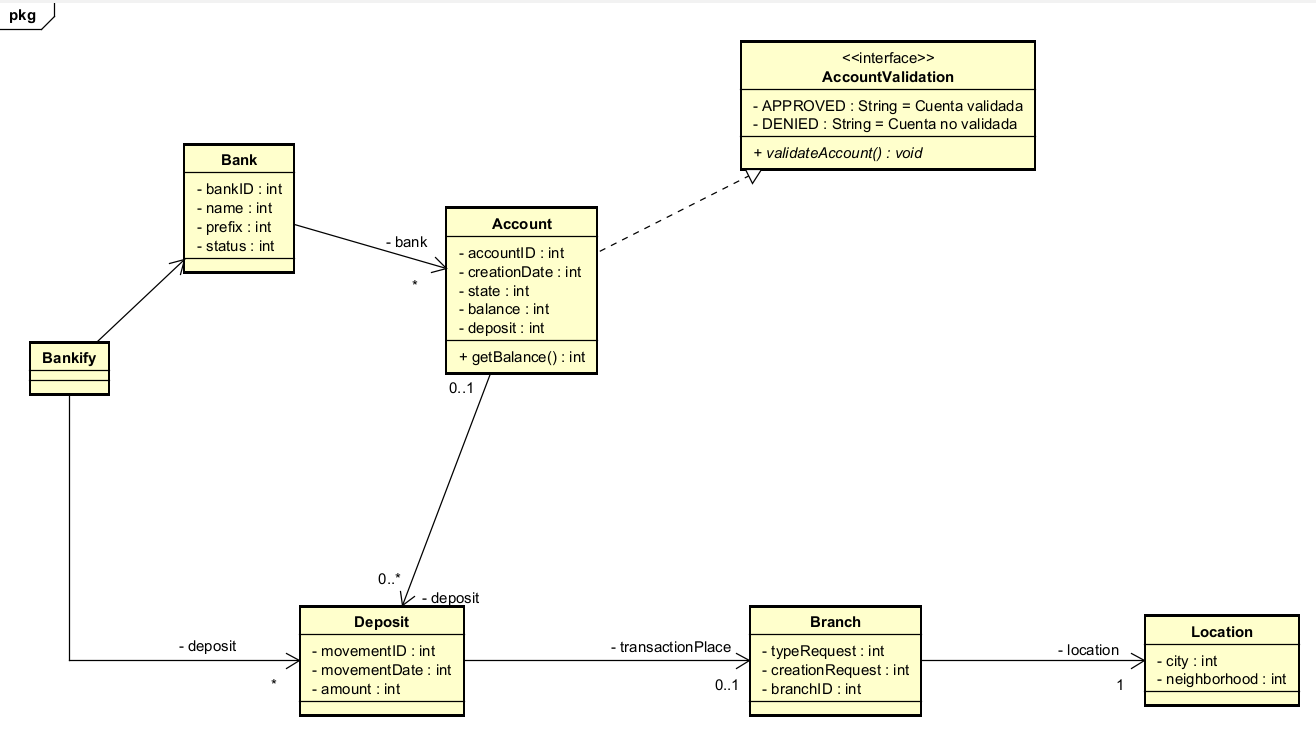
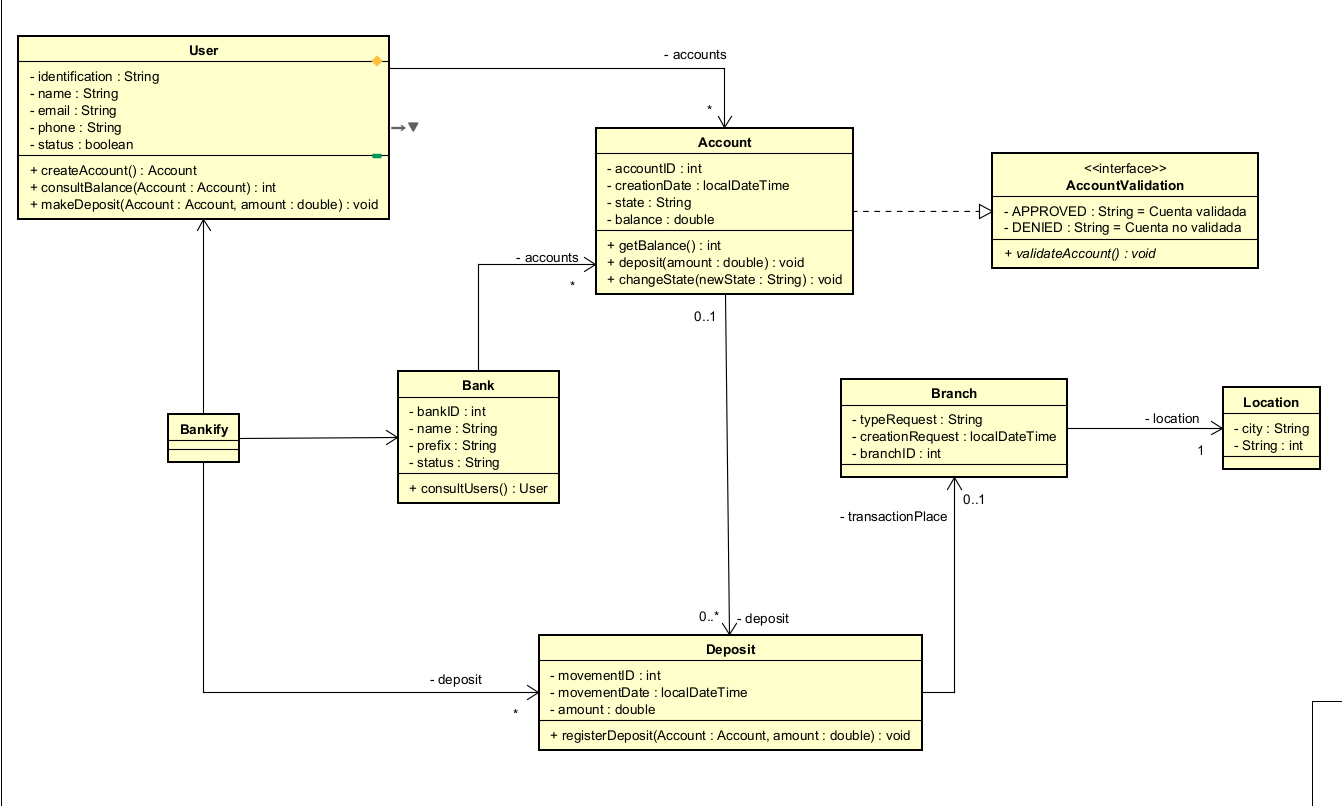
Parte 2 - Ignacio Castillo: Corrección del README en base a los cambios del diagrama de clases

diff --git a/README.md b/README.md
@@ -76,7 +76,7 @@ Esas fueron las historias de usuario generadas de los requerimientos funcionales
 
 Por último, se desarrolló el diagrama de clases con los requerimientos solicitados. Tenemos una clase controlador llamada "Bankify", la cual será la encargada de manejar toda la lógica, más sin embargo, el funcionamiento viene de las otras clases.
 
-En primer lugar nos encontramos con Bank, la clase que creará los bancos y en caso que más bancos se afilien, será más sencillo poder agregarlos, de igual manera que si se llegan a crear nuevos requerimientos, por ejemplo algún tipo de tasas de interéses, transferencias interbancarias, esta clase al resolver toda la parte de los bancos lo vuelve sencillo.
+En primer lugar nos encontramos con Bank, la clase que creará los bancos y en caso que más bancos se afilien, será más sencillo poder agregarlos, de igual manera que si se llegan a crear nuevos requerimientos, por ejemplo algún tipo de tasas de interéses, transferencias interbancarias, esta clase al resolver toda la parte de los bancos lo vuelve sencillo. También tenemos la clase User, encargada de todo el manejo de los usuarios (para que tenga una clase propia y no se trabaje desde Bankify).
 
 De ahí pasamos a la clase Account, será la encargada de toda la parte de la creación de la cuenta de las personas, en donde se guarda el dinero y la información del usuario; esta clase implementa la interfaz AccountValidate (parte de los requerimientos), en donde en pro de la seguridad del software se hará una validación de la cuenta de si satisface las normas o no.
 
